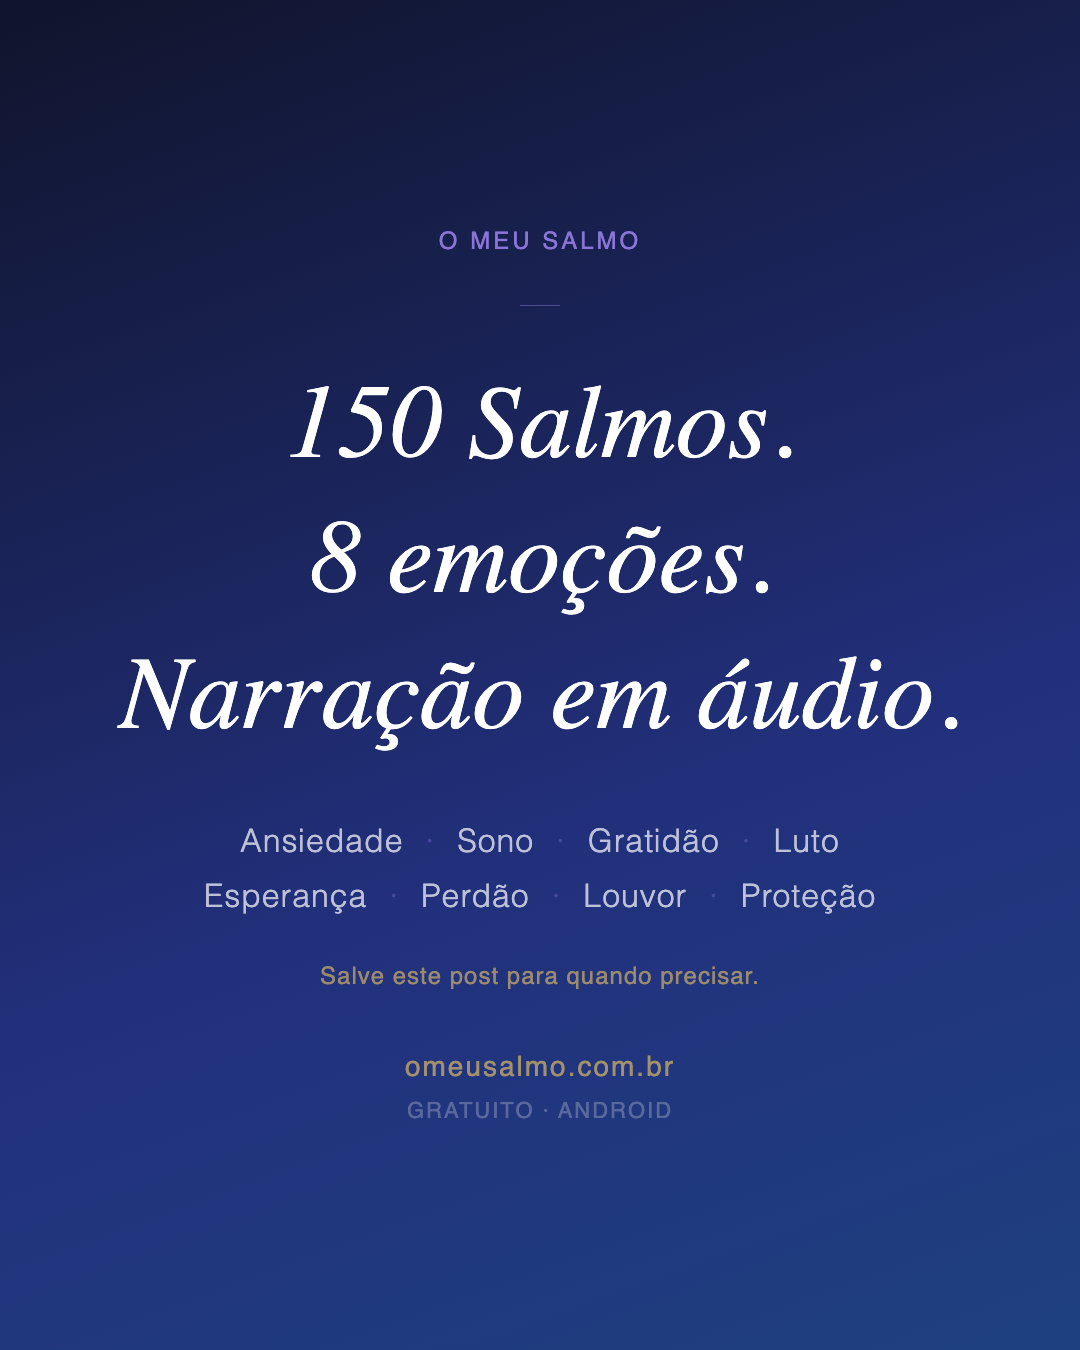
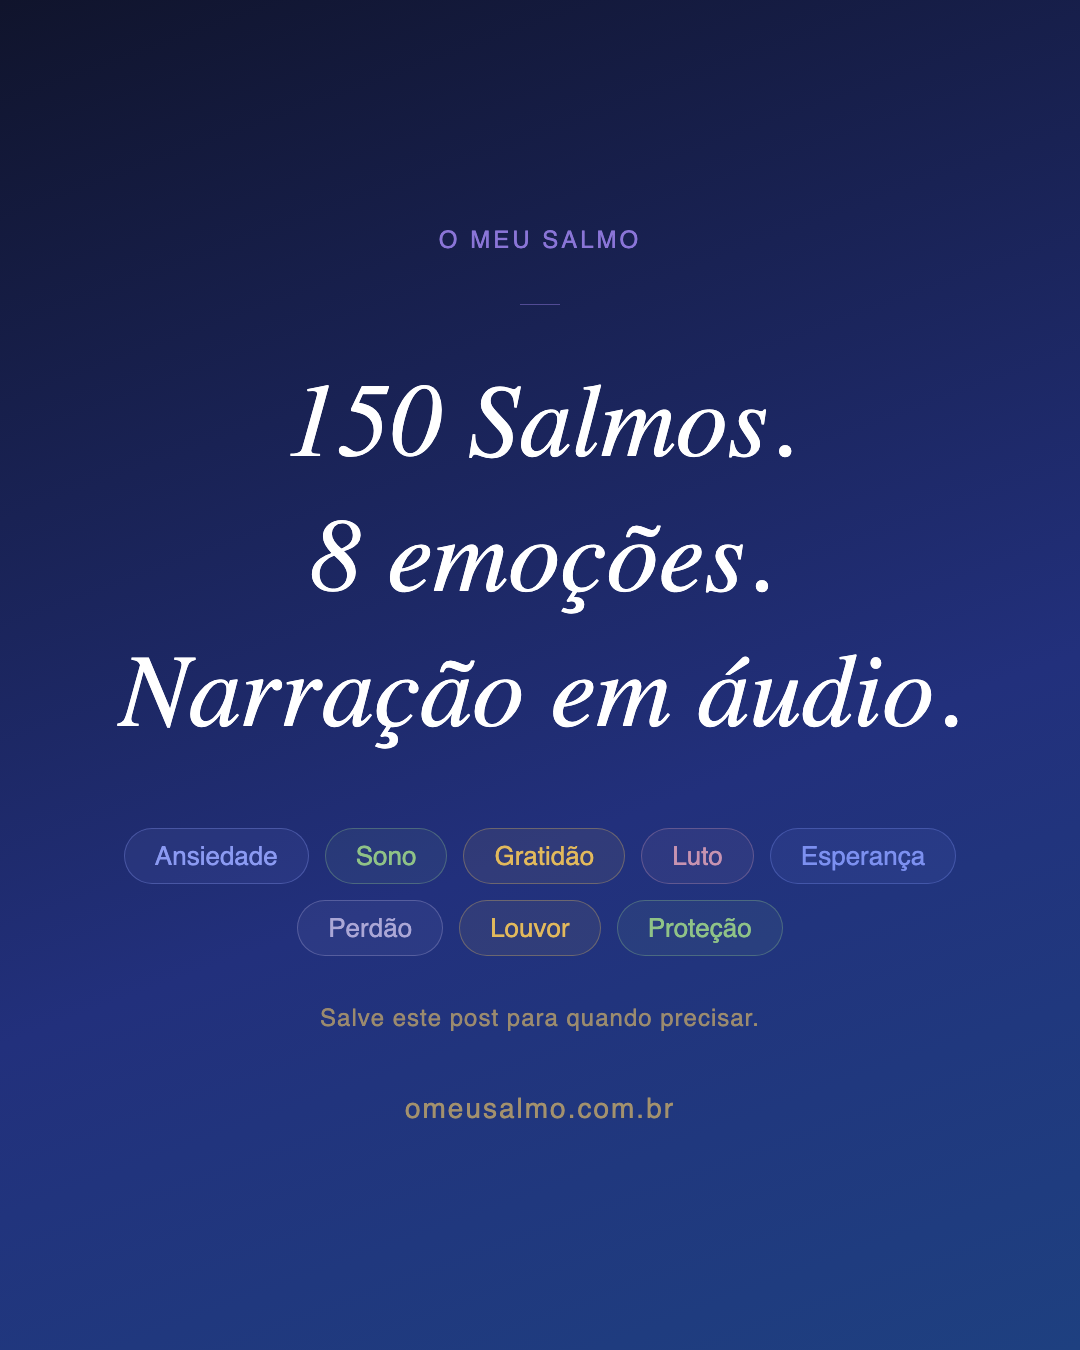
design(instagram): colored chips on anxiety-carousel CTA, drop platform mentions from art
'Gratuito · Android' removed from both CTA slides: keeps artwork
platform-neutral for a future iOS launch (LP keeps it for now, as
decided). Emotion list on the CTA became the LP-colored chip row.

diff --git a/instagram/fontes/carrossel-ansiedade/slide-07-cta.html b/instagram/fontes/carrossel-ansiedade/slide-07-cta.html
@@ -50,17 +50,14 @@ body { width:1080px; height:1350px; overflow:hidden; }
   letter-spacing:2px; text-transform:uppercase;
 }
 .save-cue{margin-top:48px;font-family:'DM Sans',sans-serif;font-size:24px;color:#C4A86A;opacity:0.75;letter-spacing:1px;}
+.chips{display:flex;flex-wrap:wrap;gap:16px;justify-content:center;margin-top:8px;max-width:860px;margin-left:auto;margin-right:auto;}.chip{font-family:'Instrument Sans',sans-serif;font-size:26px;border:1px solid;border-radius:999px;padding:12px 30px;}
 </style></head><body>
 <div class="slide">
   <div class="tag">O Meu Salmo</div>
   <div class="deco"></div>
   <div class="title">150 Salmos.<br>8 emoções.<br>Narração em áudio.</div>
-  <div class="features">
-    <div class="feature">Ansiedade <span class="sep">·</span> Sono <span class="sep">·</span> Gratidão <span class="sep">·</span> Luto</div>
-    <div class="feature">Esperança <span class="sep">·</span> Perdão <span class="sep">·</span> Louvor <span class="sep">·</span> Proteção</div>
-  </div>
+  <div class="chips"><span class="chip" style="color:#8B9AF2;border-color:#8B9AF255;background:#8B9AF214">Ansiedade</span><span class="chip" style="color:#8FC287;border-color:#8FC28755;background:#8FC28714">Sono</span><span class="chip" style="color:#E2B95C;border-color:#E2B95C55;background:#E2B95C14">Gratidão</span><span class="chip" style="color:#C793B1;border-color:#C793B155;background:#C793B114">Luto</span><span class="chip" style="color:#7C90F0;border-color:#7C90F055;background:#7C90F014">Esperança</span><span class="chip" style="color:#ABA7D6;border-color:#ABA7D655;background:#ABA7D614">Perdão</span><span class="chip" style="color:#E2B95C;border-color:#E2B95C55;background:#E2B95C14">Louvor</span><span class="chip" style="color:#8FC287;border-color:#8FC28755;background:#8FC28714">Proteção</span></div>
   <div class="save-cue">Salve este post para quando precisar.</div>
   <div class="url">omeusalmo.com.br</div>
-  <div class="brand">Gratuito · Android</div>
 </div>
 </body></html>

diff --git a/instagram/fontes/carrossel-app/slide-05-cta.html b/instagram/fontes/carrossel-app/slide-05-cta.html
@@ -41,6 +41,5 @@ body { width:1080px; height:1350px; overflow:hidden; }
   <div class="title">O meu <em>Salmo</em></div>
   <div class="sub gold">Salve este post e compartilhe<br>com quem precisa.</div>
   <div class="url">omeusalmo.com.br</div>
-  <div class="cue">Gratuito &middot; Android</div>
 </div>
 </body></html>
